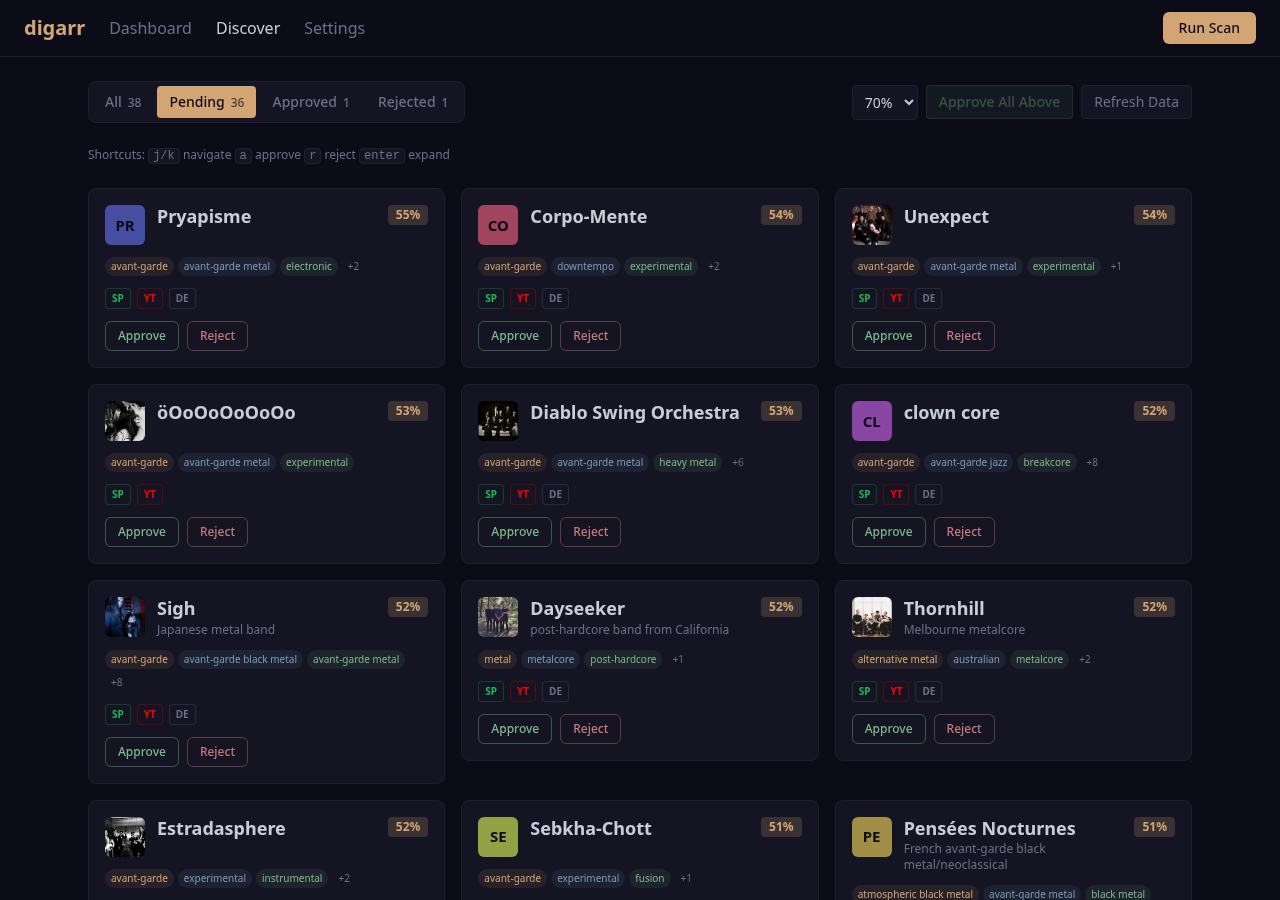
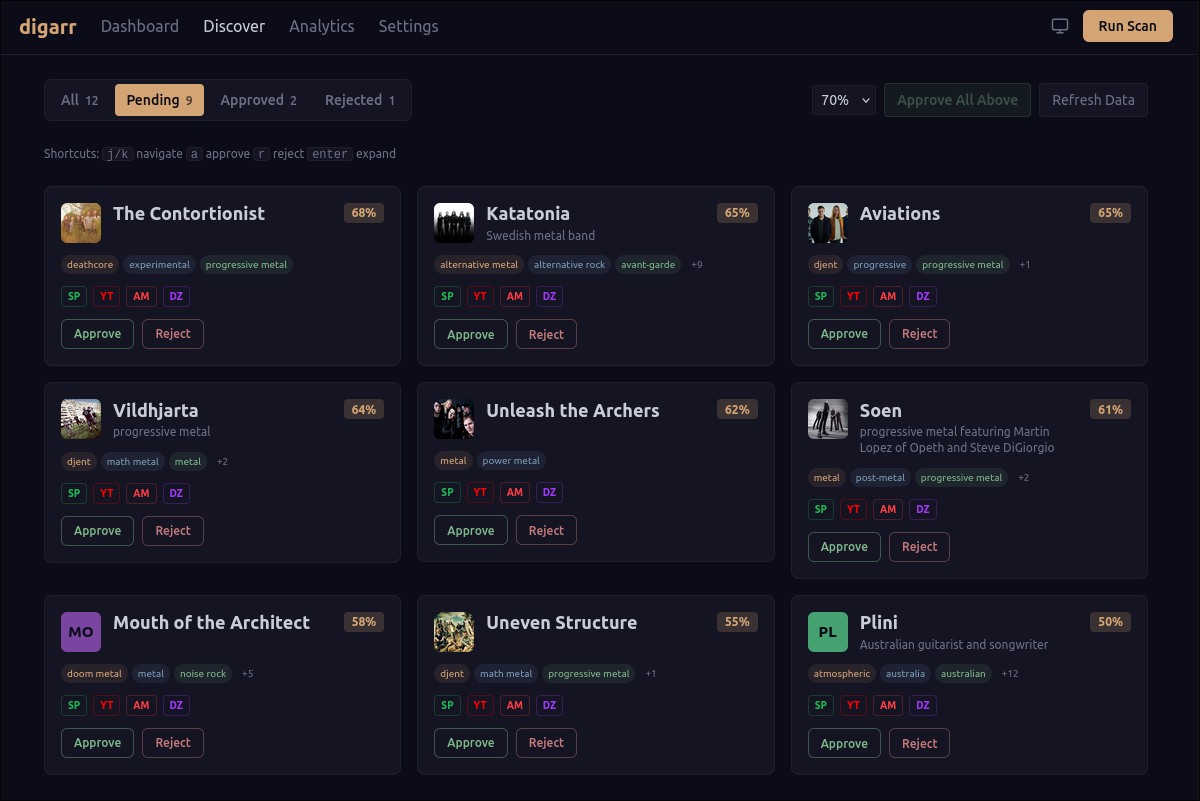
docs: update screenshots for all pages
Replace old dashboard/discover screenshots with fresh captures of
dashboard (dark + light), discover, artist detail, analytics, and
all four settings tabs (connections, recommendations, schedule, account).

diff --git a/README.md b/README.md
@@ -12,9 +12,23 @@
 
 Think of it as Jellyseerr/Overseerr, but for music discovery.
 
-![Dashboard](docs/screenshots/dashboard.png)
+![Dashboard (dark)](docs/screenshots/dashboard-dark.png)
+
+![Dashboard (light)](docs/screenshots/dashboard-light.png)
 
 ![Discover](docs/screenshots/discover.png)
+
+![Artist Detail](docs/screenshots/detail.png)
+
+![Analytics](docs/screenshots/analytics.png)
+
+![Settings - Connections](docs/screenshots/settings-connections.png)
+
+![Settings - Recommendations](docs/screenshots/settings-recs.png)
+
+![Settings - Schedule](docs/screenshots/settings-schedule.png)
+
+![Settings - Account](docs/screenshots/settings-accounts.png)
 
 ---
 